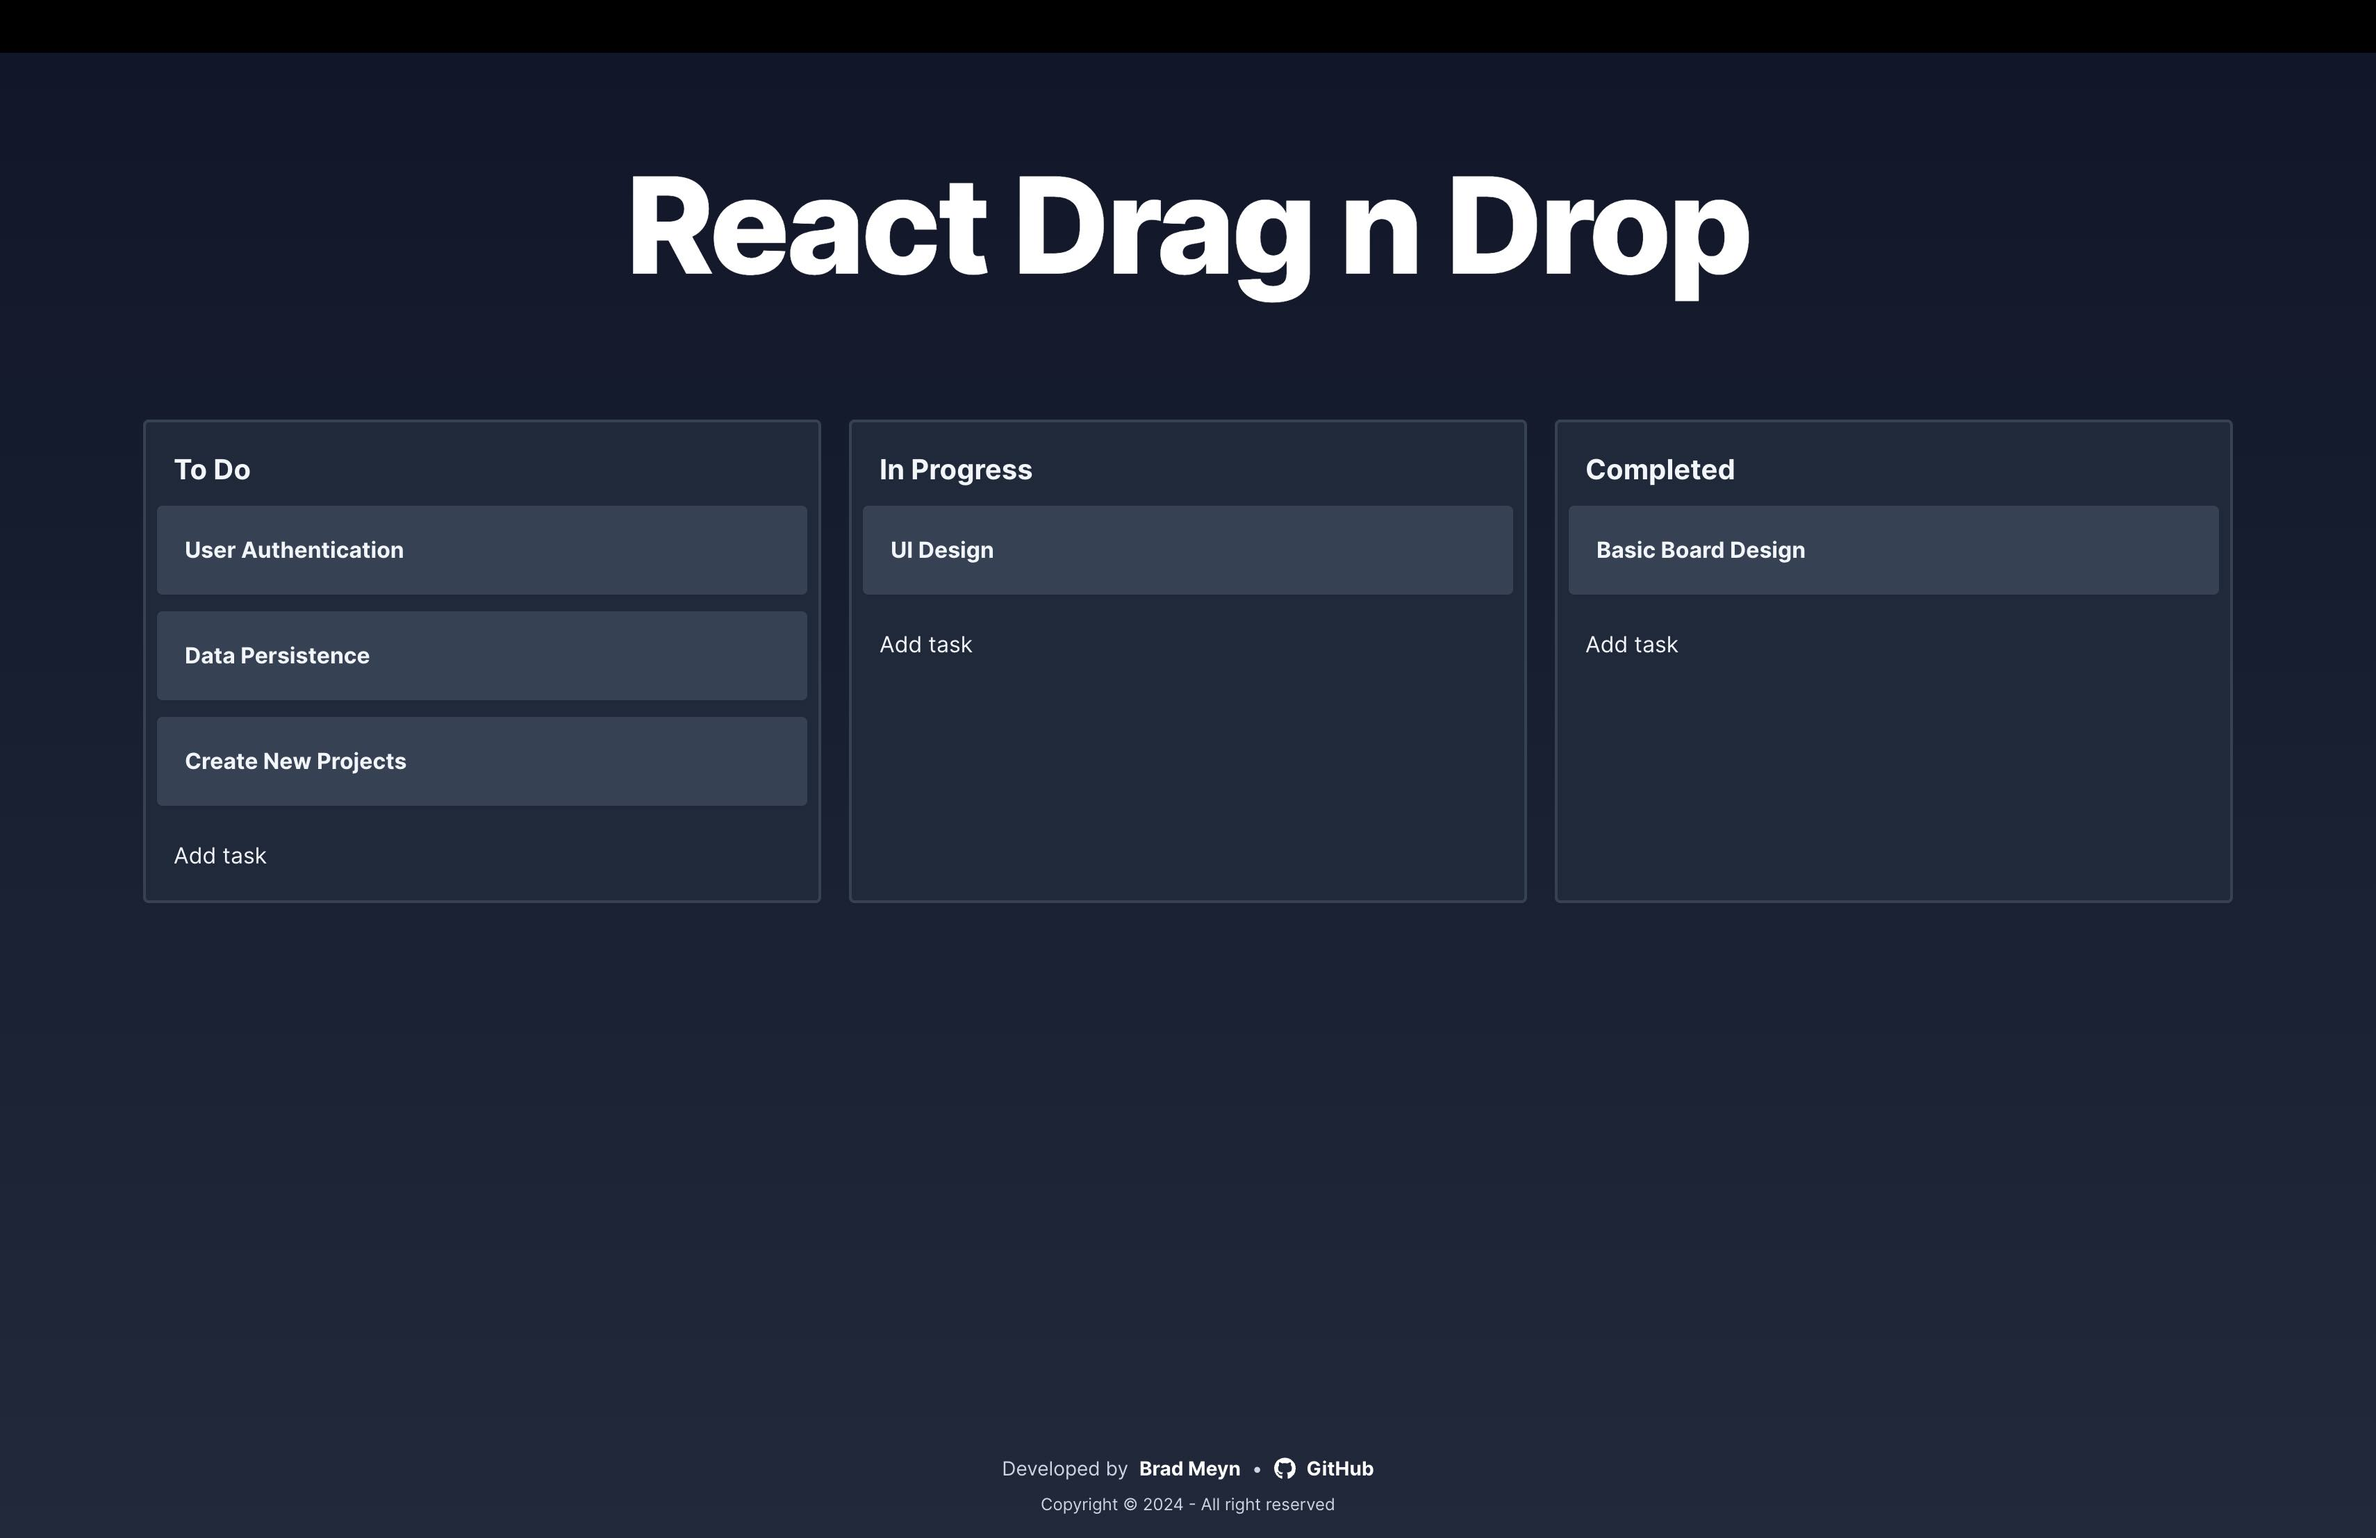
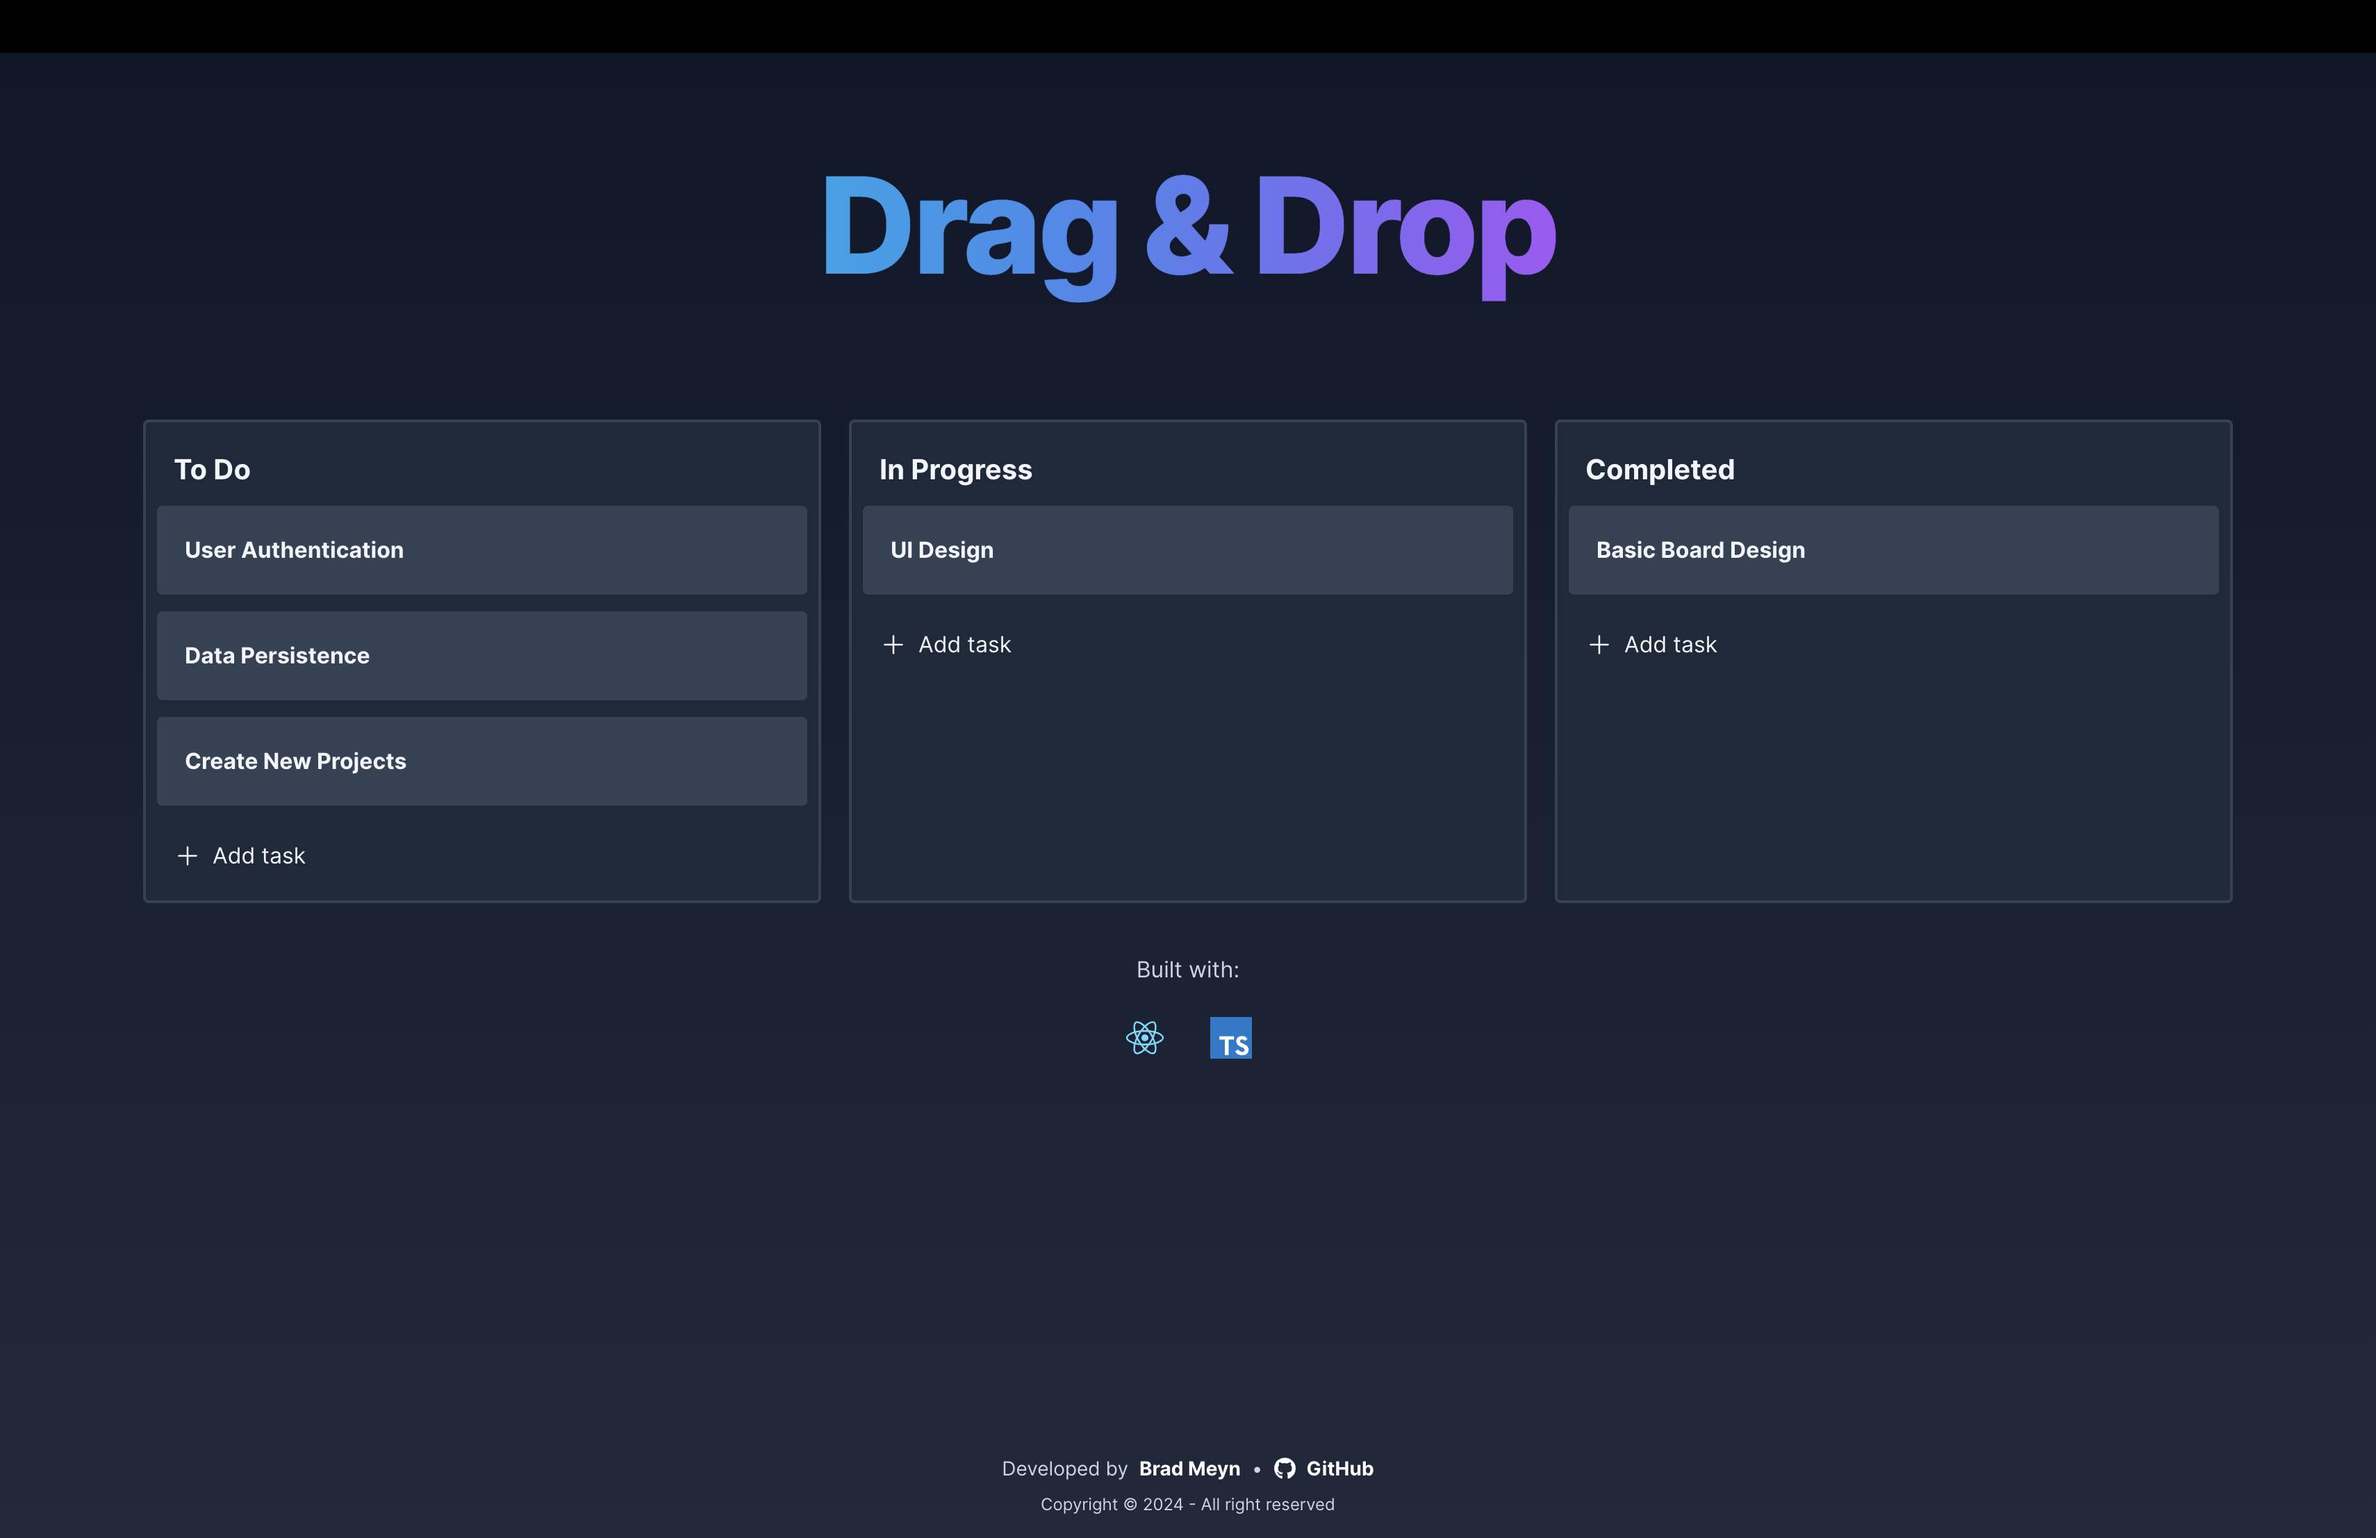
screenshot

diff --git a/src/pages/Home.tsx b/src/pages/Home.tsx
@@ -16,6 +16,44 @@ export default function Home() {
       </div>
 
       <Board />
+      <div
+        className="my-5 opacity-0 animate-[fade-in-up_0.6s_800ms]"
+        style={{ animationFillMode: "forwards" }}
+      >
+        <p className="text-slate-300 text-center">Built with:</p>
+        <div className="flex gap-8 justify-center items-center mt-5">
+          <div>
+            <svg
+              width="30px"
+              height="34px"
+              viewBox="0 0 25 25"
+              fill="none"
+              xmlns="http://www.w3.org/2000/svg"
+            >
+              <g fill="#61DAFB" width="25" height="25">
+                <path d="M23.866 12.448c0-1.474-1.886-2.871-4.776-3.737.667-2.885.37-5.18-.936-5.915a2.065 2.065 0 00-1.038-.254v1.012c.213 0 .385.04.528.118.63.353.904 1.7.69 3.433-.05.426-.134.875-.236 1.334a22.89 22.89 0 00-2.941-.495 22.239 22.239 0 00-1.928-2.268c1.51-1.374 2.928-2.127 3.892-2.127V2.538c-1.274 0-2.942.889-4.628 2.43-1.686-1.532-3.354-2.412-4.628-2.412v1.011c.96 0 2.381.749 3.891 2.114a21.536 21.536 0 00-1.913 2.263 22.053 22.053 0 00-2.946.5 13.426 13.426 0 01-.24-1.316c-.219-1.733.05-3.08.676-3.438.138-.082.32-.118.532-.118V2.56a2.1 2.1 0 00-1.047.254c-1.301.734-1.593 3.025-.922 5.9-2.88.871-4.757 2.264-4.757 3.733 0 1.474 1.885 2.871 4.776 3.737-.667 2.885-.37 5.18.936 5.915.3.172.653.254 1.042.254 1.274 0 2.942-.89 4.628-2.431 1.686 1.533 3.354 2.412 4.627 2.412a2.1 2.1 0 001.047-.254c1.302-.734 1.594-3.025.922-5.9 2.872-.867 4.748-2.264 4.748-3.733zm-6.032-3.025a20.154 20.154 0 01-.625 1.791 24.54 24.54 0 00-1.274-2.15c.658.096 1.292.214 1.9.359zm-2.121 4.83a24.076 24.076 0 01-1.117 1.733 24.64 24.64 0 01-4.178.004 23.454 23.454 0 01-2.085-3.529 24.092 24.092 0 012.075-3.542 24.617 24.617 0 014.179-.004c.384.54.76 1.116 1.12 1.723.353.595.673 1.198.964 1.805a25.182 25.182 0 01-.958 1.81zm1.496-.59c.25.608.463 1.216.639 1.806a21.18 21.18 0 01-1.908.363 25.047 25.047 0 001.269-2.168zm-4.697 4.84c-.431-.436-.862-.92-1.288-1.451.417.018.843.031 1.274.031.435 0 .866-.009 1.287-.031-.417.53-.847 1.015-1.274 1.45zm-3.447-2.671a21.334 21.334 0 01-1.9-.359c.172-.585.385-1.188.626-1.791.19.362.39.725.607 1.088.218.363.44.717.667 1.062zm3.423-9.439c.431.435.862.92 1.288 1.451a29.29 29.29 0 00-1.274-.031c-.435 0-.866.009-1.288.031.417-.53.848-1.016 1.274-1.451zM9.06 9.064a24.949 24.949 0 00-1.269 2.164 19.156 19.156 0 01-.64-1.805c.608-.14 1.247-.263 1.91-.359zm-4.192 5.679c-1.64-.685-2.7-1.583-2.7-2.295s1.06-1.615 2.7-2.295a14.47 14.47 0 011.283-.458c.264.889.612 1.814 1.043 2.762a21.186 21.186 0 00-1.029 2.749c-.458-.141-.894-.295-1.297-.463zm2.492 6.481c-.63-.354-.903-1.7-.69-3.433.051-.427.134-.875.236-1.334.908.218 1.9.386 2.942.495a22.242 22.242 0 001.927 2.267c-1.51 1.375-2.928 2.128-3.891 2.128a1.125 1.125 0 01-.524-.123zm10.988-3.456c.218 1.733-.05 3.08-.676 3.438-.139.082-.32.118-.533.118-.959 0-2.38-.748-3.89-2.114a21.527 21.527 0 001.912-2.263 22.048 22.048 0 002.946-.499c.107.458.19.898.241 1.32zm1.784-3.025a14.44 14.44 0 01-1.283.458 21.491 21.491 0 00-1.043-2.762c.427-.944.77-1.864 1.029-2.749.458.141.894.295 1.301.463 1.64.685 2.701 1.583 2.701 2.295-.005.712-1.065 1.615-2.705 2.295z"></path>
+                <path d="M12.498 14.52c1.169 0 2.117-.927 2.117-2.072s-.948-2.073-2.117-2.073c-1.17 0-2.117.928-2.117 2.073s.947 2.073 2.117 2.073z"></path>
+              </g>
+            </svg>
+          </div>
+
+          <div>
+            <svg
+              viewBox="0 0 24 24"
+              width="30px"
+              height="34px"
+              fill="none"
+              xmlns="http://www.w3.org/2000/svg"
+            >
+              <path d="M0 0h24v24H0V0z" fill="#fff"></path>
+              <path
+                d="M0 12v12h24V0H0v12zm19.34-.956c.61.152 1.075.423 1.502.865.221.236.549.667.575.77.008.03-1.036.73-1.669 1.123-.022.015-.114-.083-.217-.236-.309-.45-.632-.644-1.128-.678-.727-.05-1.2.332-1.192.967a.88.88 0 00.103.45c.16.332.457.53 1.39.934 1.718.739 2.453 1.226 2.91 1.92.51.773.625 2.008.278 2.926-.38.998-1.325 1.676-2.655 1.9-.411.073-1.386.062-1.828-.018-.964-.171-1.878-.647-2.442-1.272-.221-.244-.651-.88-.625-.926.011-.015.11-.076.221-.141l.892-.514.69-.4.145.213c.201.31.643.732.91.873.766.404 1.817.346 2.335-.118.221-.202.312-.412.312-.72 0-.279-.033-.4-.178-.61-.187-.266-.568-.49-1.65-.96-1.239-.533-1.772-.864-2.26-1.39a3.167 3.167 0 01-.659-1.2c-.091-.34-.114-1.189-.042-1.531.255-1.2 1.158-2.031 2.462-2.279.422-.08 1.406-.05 1.82.054v-.002zm-5.633 1.001l.007.983H10.59v8.876H8.381v-8.876H5.257v-.964l.027-.99c.01-.015 1.912-.022 4.217-.019l4.194.012.012.978z"
+                fill="#007ACC"
+              ></path>
+            </svg>
+          </div>
+        </div>
+      </div>
     </div>
   );
 }
